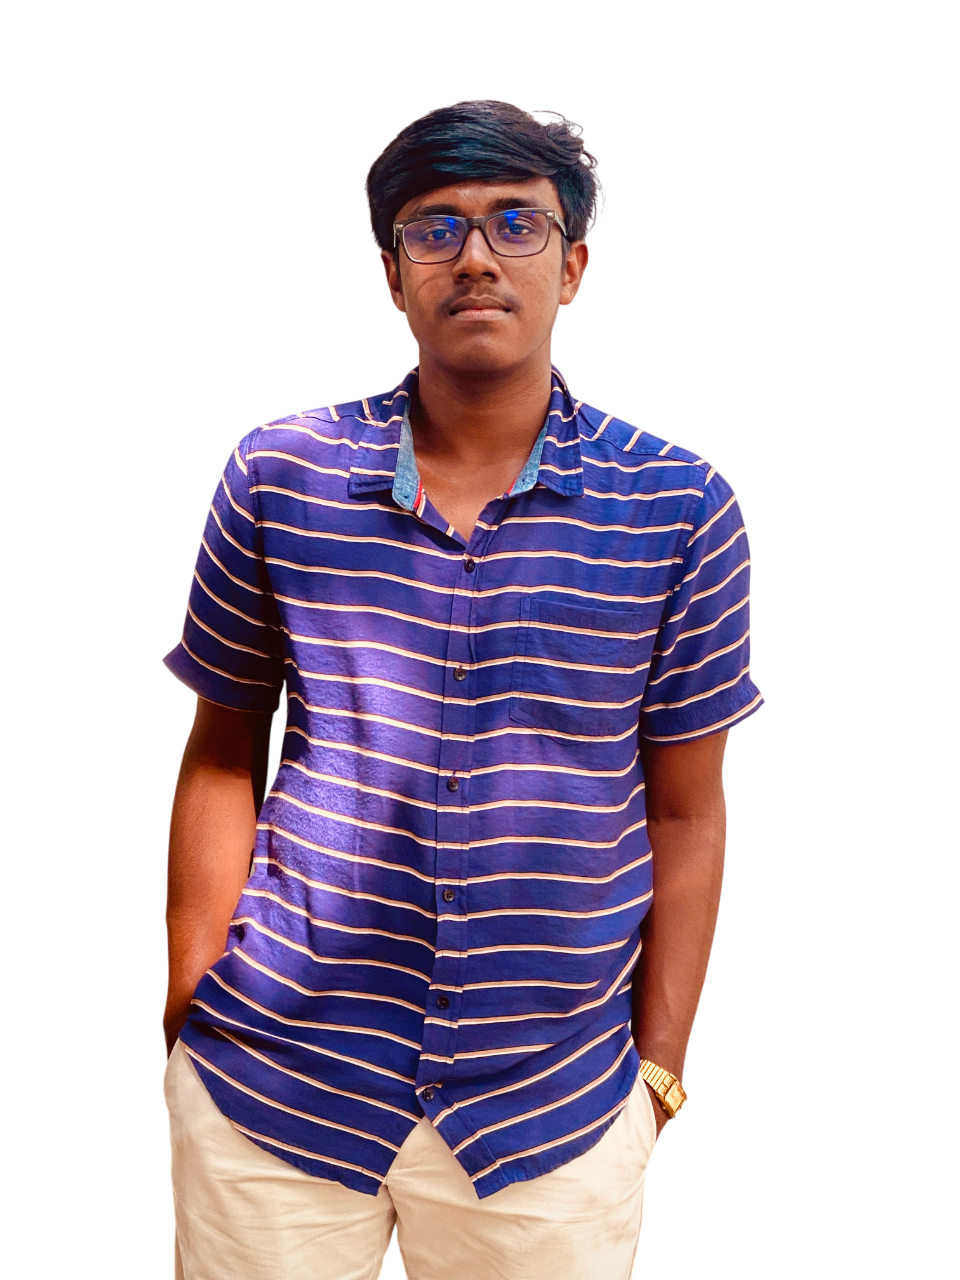
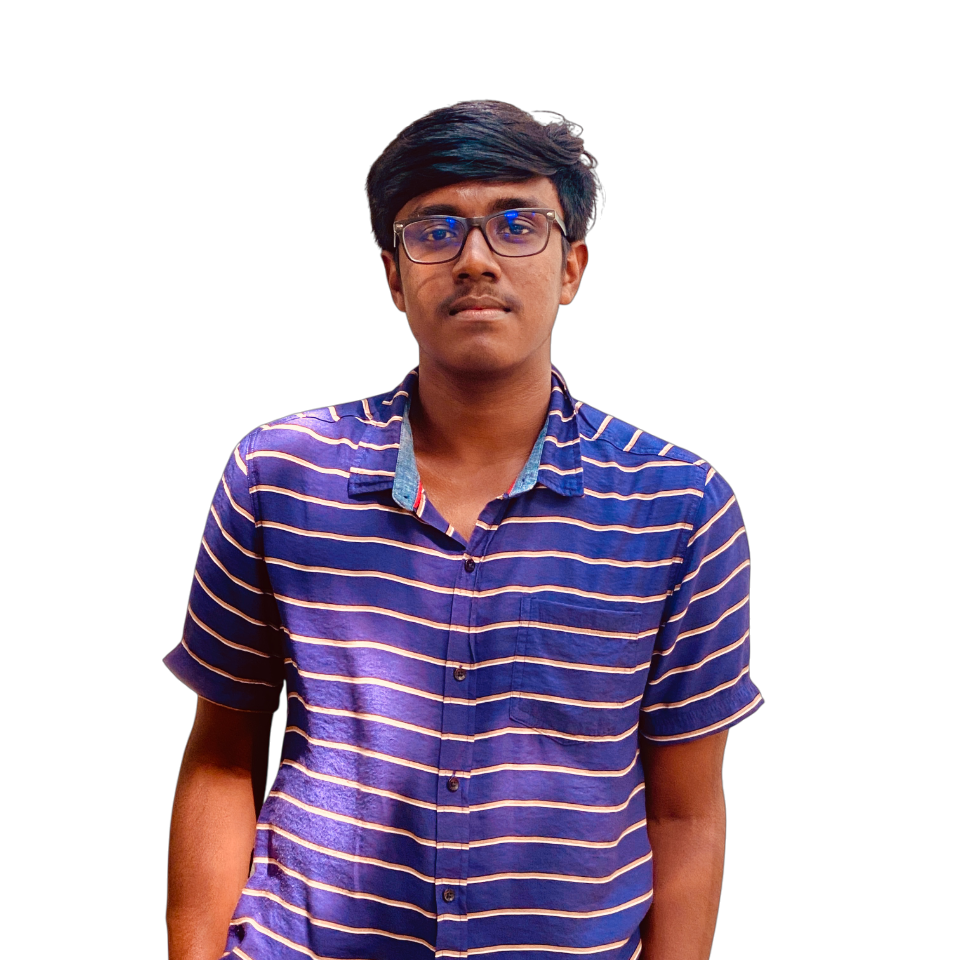
re-setup hero section to all pages

diff --git a/index.html b/index.html
@@ -25,7 +25,7 @@
         <!--left side-->
         <div>
             <h4>Located in Sri Lnaka</h4>
-            <img src="assets/gifs/world_location.gif" title="Located in Sri Lnaka" alt="world_location_gif">
+            <img src="assets/gifs/world_location.gif" width="50" height="50" title="Located in Sri Lnaka" alt="world_location_gif">
         </div>
 
         <!--right side-->
@@ -33,13 +33,13 @@
             <h4>Designer & Developer</h4>
         </div>
 
-        <!--moving name-->
-        <h1>Gamitha Gimhana</h1>
-
         <!--background image-->
         <div>
-            <img src="assets/images/my_photo_1.png" title="Gamitha Gimhana" alt="my_photo">
+            <img src="assets/images/my_photo_1.png" width="960" height="960" title="Gamitha Gimhana" alt="my_photo">
         </div>
+
+        <!--moving name-->
+        <h1>Gamitha Gimhana</h1>
     </section>
 
 </body>

diff --git a/about.html b/about.html
@@ -27,7 +27,7 @@
         <!--right side-->
         <div>
             <hr>
-            <img src="assets/gifs/about_me.gif" title="Be Confidence" alt="about_me_gif">
+            <img src="assets/gifs/about_me.gif" width="100" height="100" title="Be Confidence" alt="about_me_gif">
         </div>
     </section>
 </body>

diff --git a/work.html b/work.html
@@ -26,7 +26,7 @@
 
         <!--right side-->
         <div>
-            <img src="assets/gifs/github_logo.png" title="Github" alt="github_logo">
+            <img src="assets/gifs/github_logo.png" width="50" height="50" title="Github" alt="github_logo">
             <h4>Gamitha Gimhana</h4>
         </div>
         <hr>

diff --git a/contact.html b/contact.html
@@ -26,7 +26,7 @@
 
         <!--right side-->
         <div>
-            <img src="assets/images/my_photo_1.png" title="Gamitha Gimhana" alt="my_photo">
+            <img src="assets/images/my_photo_1.png" width="100" height="100" title="Gamitha Gimhana" alt="my_photo">
         </div>
         <hr>
     </section>
